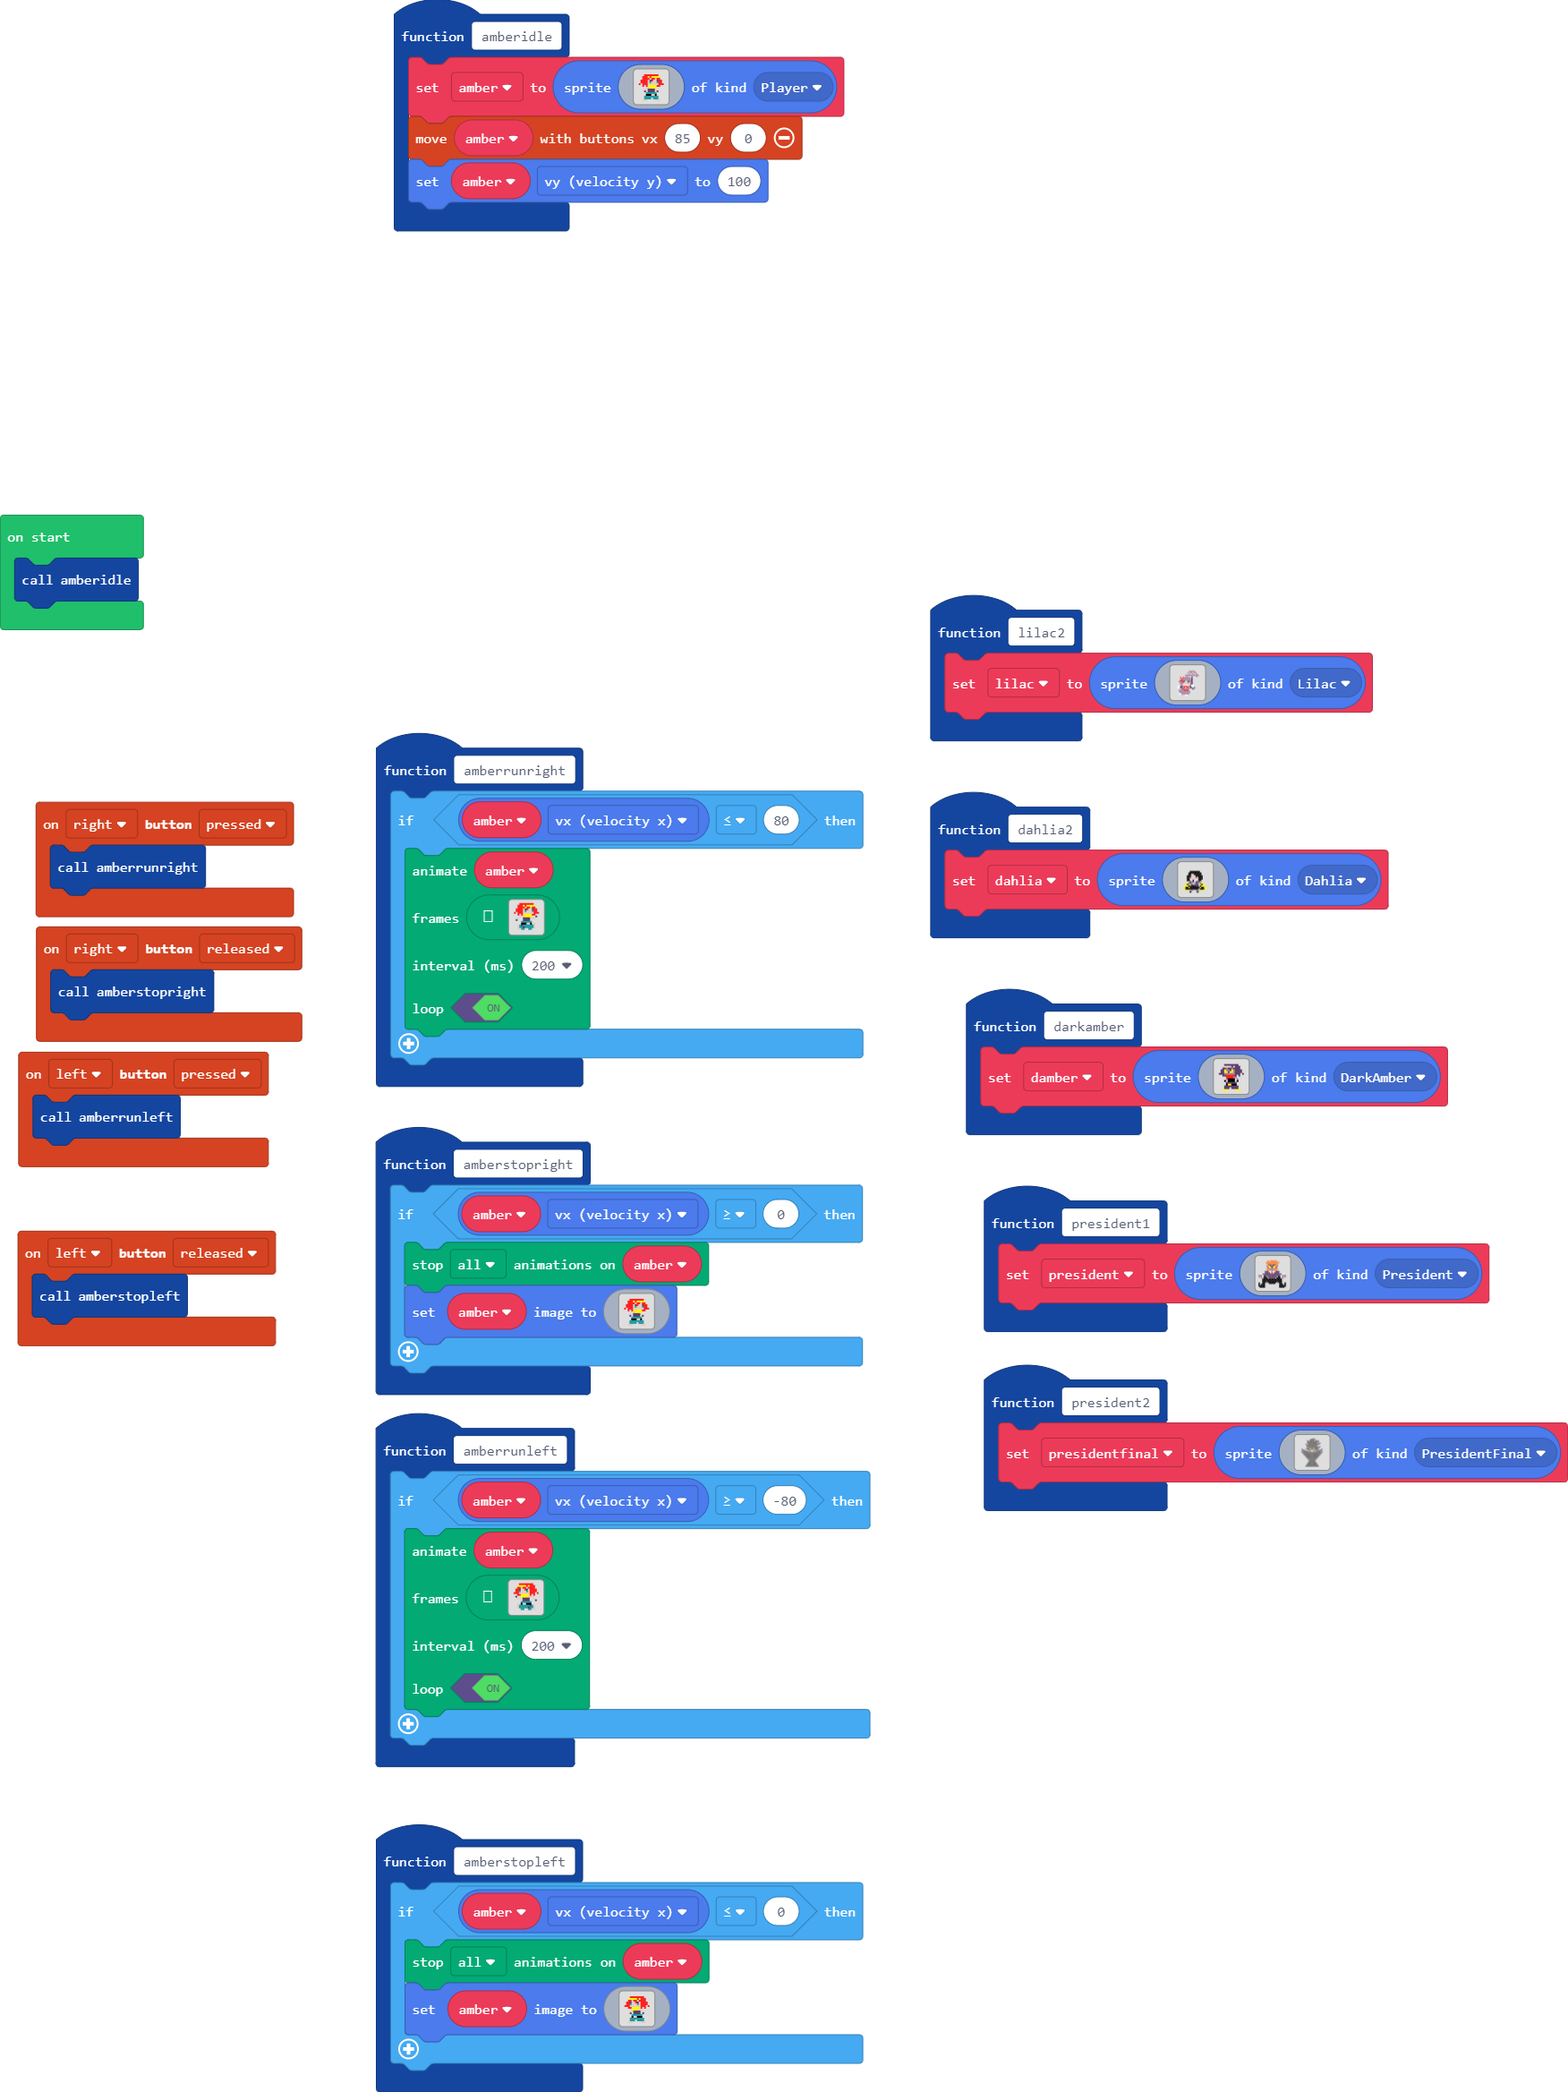
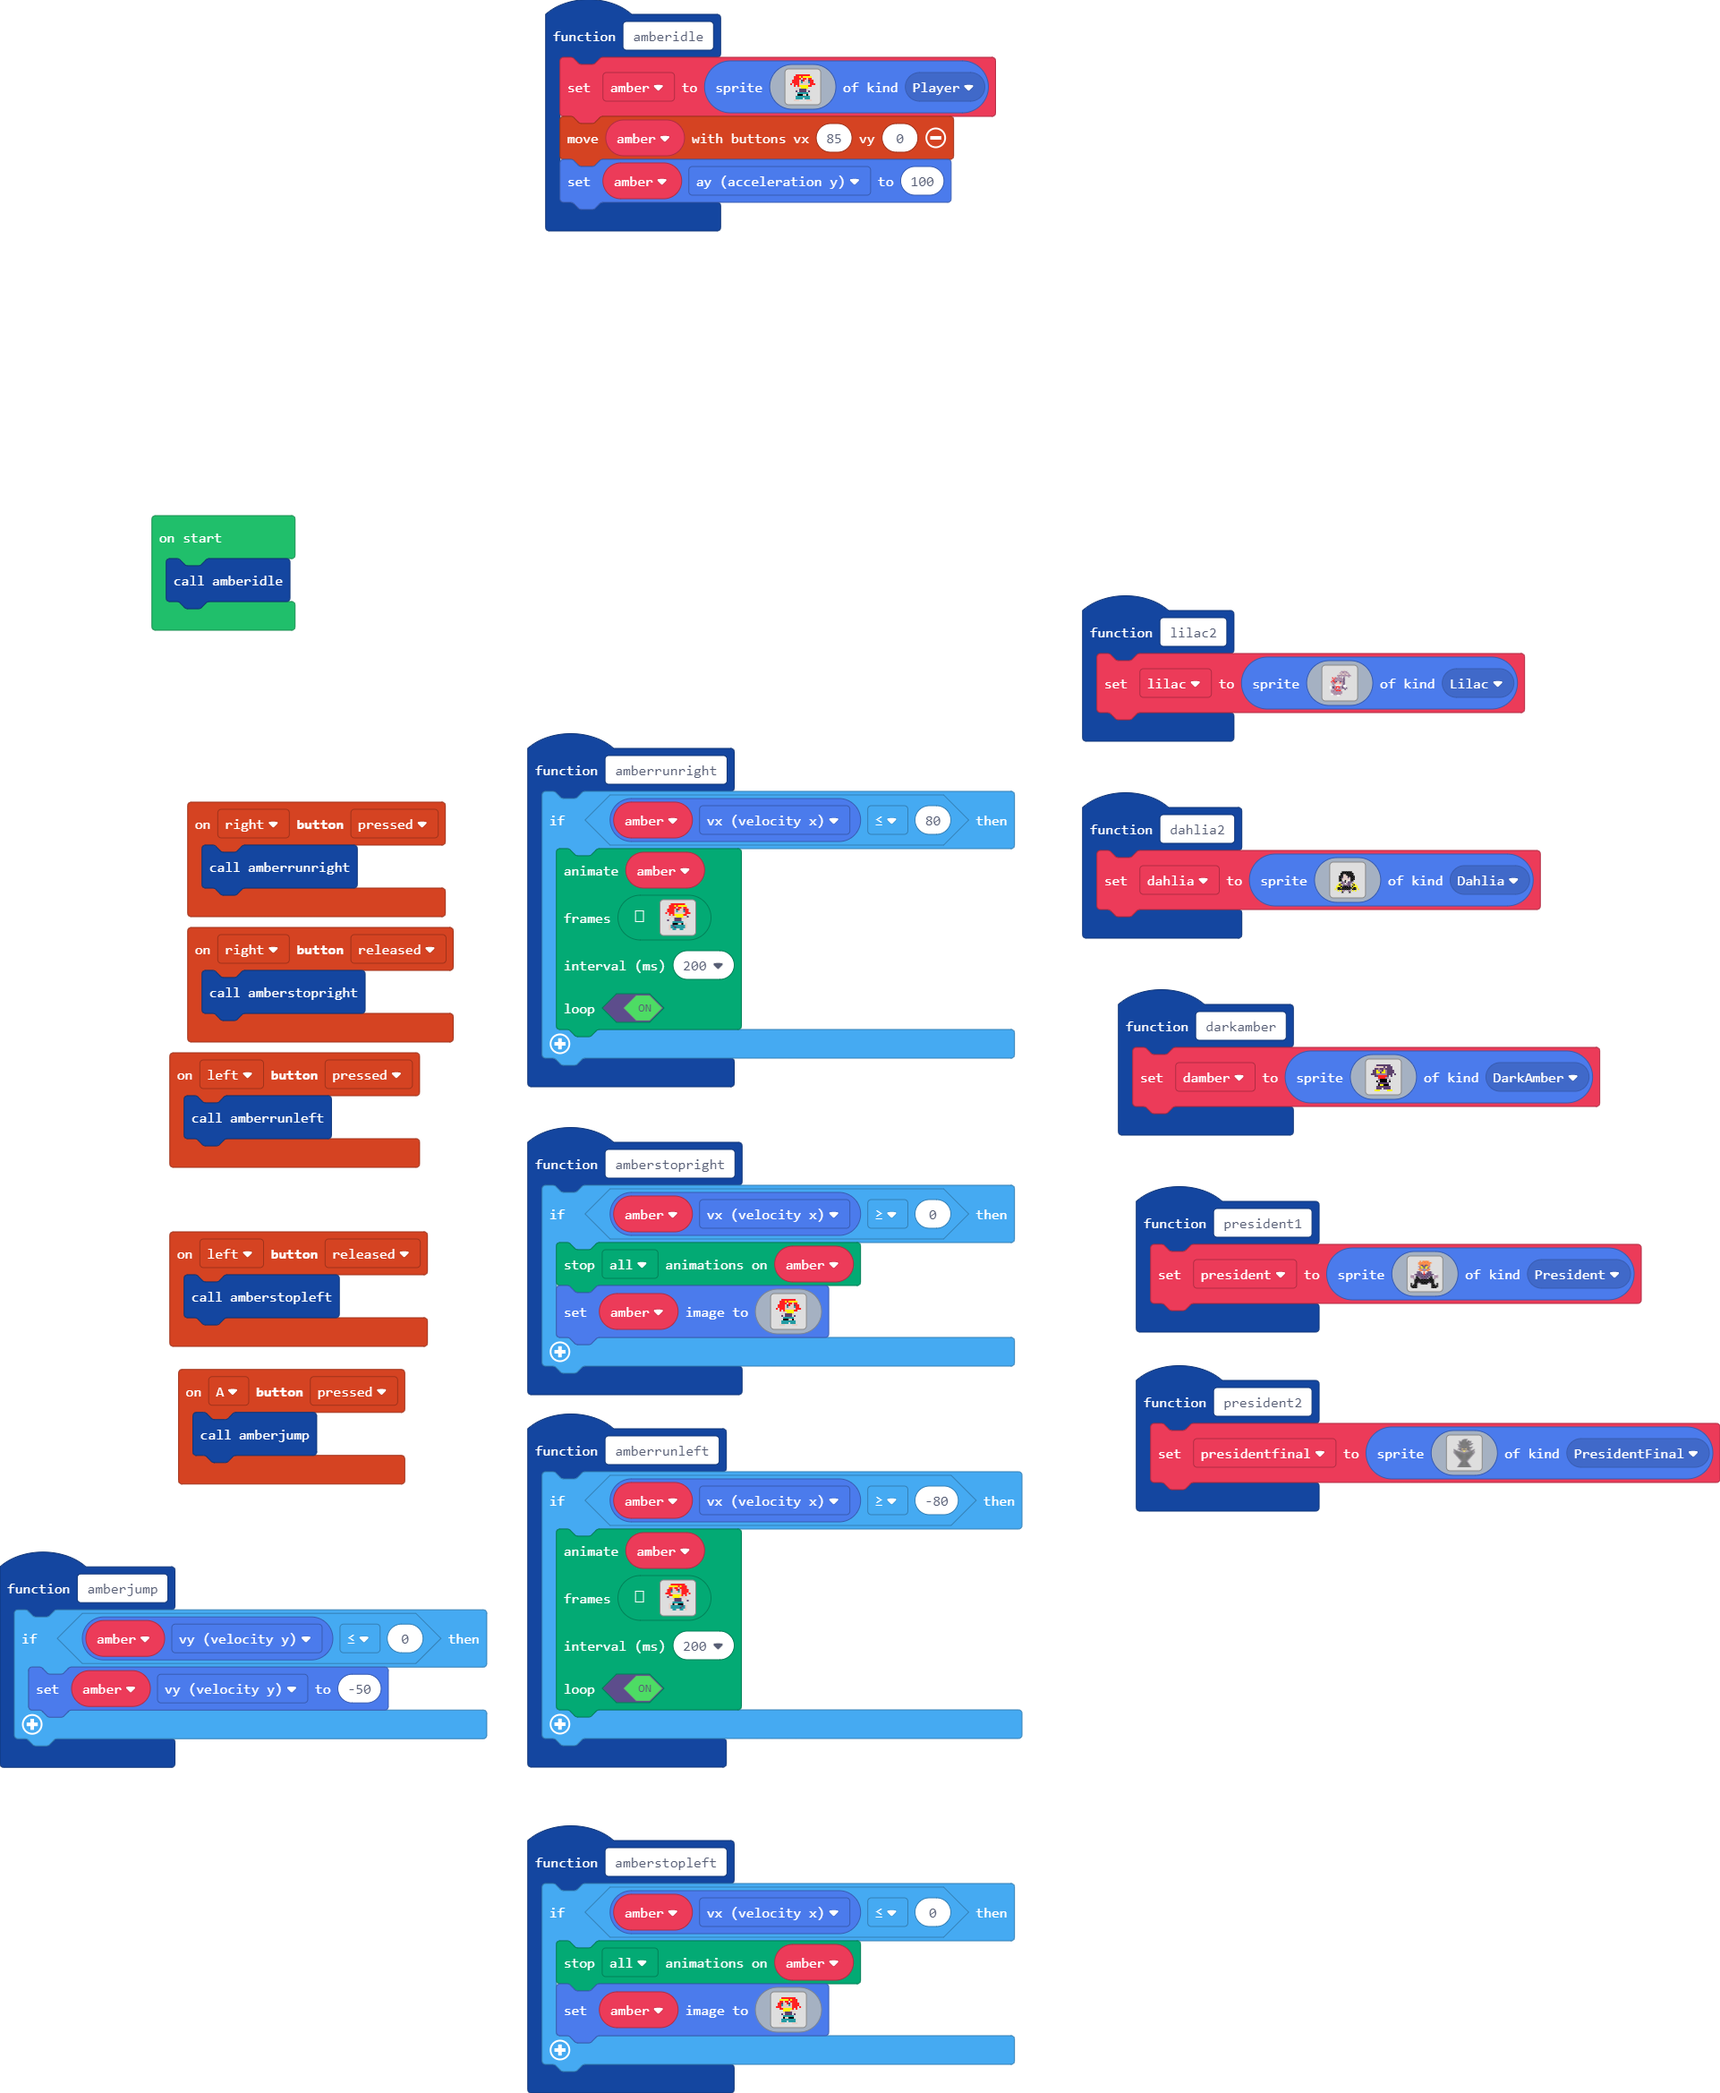
Update main.blocks, main.ts

diff --git a/main.ts b/main.ts
@@ -5,105 +5,9 @@ namespace SpriteKind {
     export const President = SpriteKind.create()
     export const PresidentFinal = SpriteKind.create()
 }
-function amberstopright () {
-    if (amber.vx >= 0) {
-        animation.stopAnimation(animation.AnimationTypes.All, amber)
-        amber.setImage(img`
-. . . . . . . . . . . . . . . . 
-. . . . 2 2 2 2 2 2 2 2 . . . . 
-. . . 2 2 2 5 2 5 5 5 5 5 . . . 
-. . . 2 2 2 2 d 2 2 d 2 2 . . . 
-. . 2 2 2 2 d c 2 d d c 2 2 . . 
-. . 2 2 2 2 d 6 d d d 6 2 2 . . 
-. 2 . 2 2 2 d d d d d d 2 2 2 . 
-. . . 2 . 2 5 5 5 5 5 2 2 . . . 
-. . . . . d d 5 5 5 5 . . . . . 
-. . . . d . c c c c d . . . . . 
-. . . . c . c c c c . c . . . . 
-. . . . . 6 6 6 6 6 6 . . . . . 
-. . . . . f f f d d f . . . . . 
-. . . . 6 6 6 6 6 6 6 6 . . . . 
-. . . . 6 6 6 6 . 6 6 6 . . . . 
-. . . d d d . . . . d d d . . . 
-`)
-    }
-}
-function amberrunleft () {
-    if (amber.vx >= -80) {
-        animation.runImageAnimation(
-        amber,
-        [img`
-. . . . 2 2 2 2 2 2 2 2 . . . . 
-. . . 5 5 5 5 5 2 5 2 2 2 . . . 
-. . . 2 2 d 2 2 d 2 2 2 2 . . . 
-. . 2 2 c d d 2 c d 2 2 2 2 . . 
-. . 2 2 6 d d d 6 d 2 2 2 2 . . 
-. 2 2 2 d d d d d d 2 2 2 . 2 . 
-. . . 2 2 5 5 5 5 5 2 . 2 . . . 
-. . c . . 5 5 5 5 d d d . . . . 
-. . . d d d c c c c . . d . . . 
-. . . . . . c c c c . . . c . . 
-. . . . . 6 6 6 6 6 6 . . . . . 
-. . . d . f d d f f f . . . . . 
-. . . d 6 6 6 6 6 6 c 6 d . . . 
-. . . d 6 6 6 6 6 c 6 6 d . . . 
-. . . . . 6 6 . . 6 6 . d . . . 
-. . . . . . . . . . . . . . . . 
-`,img`
-. . . . . . . . . . . . . . . . 
-. . . . 2 2 2 2 2 2 2 2 . . . . 
-. . . 5 5 5 5 5 2 5 2 2 2 . . . 
-. . . 2 2 d 2 2 d 2 2 2 2 . . . 
-. . 2 2 c d d 2 c d 2 2 2 2 . . 
-. . 2 2 6 d d d 6 d 2 2 2 2 . . 
-. 2 2 2 d d d d d d 2 2 2 . 2 . 
-. . . 2 2 5 5 5 5 5 2 . 2 . . . 
-. . . . . 5 5 5 5 d . . . . . . 
-. . . . . d c c c c d . . . . . 
-. . . . c d c c c d d . . . . . 
-. . . . . 6 6 6 6 6 6 . . . . . 
-. . . . . f d d f f f . . . . . 
-. . . . . 6 6 6 6 6 6 . . . . . 
-. . . . . 6 6 c 6 6 6 . . . . . 
-. . . . d d d . d d d . . . . . 
-`,img`
-. . . . 2 2 2 2 2 2 2 2 . . . . 
-. . . 5 5 5 5 5 2 5 2 2 2 . . . 
-. . . 2 2 d 2 2 d 2 2 2 2 . . . 
-. . 2 2 c d d 2 c d 2 2 2 2 . . 
-. . 2 2 6 d d d 6 d 2 2 2 2 . . 
-. 2 2 2 d d d d d d 2 2 2 . 2 . 
-. . . 2 2 5 5 5 5 5 2 . 2 . . . 
-. . c . . 5 5 d c c d d . . . . 
-. . . d d d d c c c . . d . . . 
-. . . . . . c c c c . . . c . . 
-. . . . . 6 6 6 6 6 6 . . . . . 
-. . . d . f d d f f f . . . . . 
-. . . d 6 c 6 6 6 6 6 6 d . . . 
-. . . d 6 6 c 6 6 6 6 6 d . . . 
-. . . . . 6 6 . . 6 6 . d . . . 
-. . . . . . . . . . . . . . . . 
-`,img`
-. . . . . . . . . . . . . . . . 
-. . . . 2 2 2 2 2 2 2 2 . . . . 
-. . . 5 5 5 5 5 2 5 2 2 2 . . . 
-. . . 2 2 d 2 2 d 2 2 2 2 . . . 
-. . 2 2 c d d 2 c d 2 2 2 2 . . 
-. . 2 2 6 d d d 6 d 2 2 2 2 . . 
-. 2 2 2 d d d d d d 2 2 2 . 2 . 
-. . . 2 2 5 5 5 5 5 2 . 2 . . . 
-. . . . . 5 5 5 5 d . . . . . . 
-. . . . . d c c c c d . . . . . 
-. . . . c d c c c d d . . . . . 
-. . . . . 6 6 6 6 6 6 . . . . . 
-. . . . . f d d f f f . . . . . 
-. . . . . 6 6 6 6 6 6 . . . . . 
-. . . . . 6 6 c 6 6 6 . . . . . 
-. . . . d d d . d d d . . . . . 
-`],
-        200,
-        true
-        )
+function amberjump () {
+    if (amber.vy <= 0) {
+        amber.vy = -50
     }
 }
 controller.left.onEvent(ControllerButtonEvent.Pressed, function () {
@@ -158,7 +62,7 @@ function amberidle () {
 . . . d d d . . . . d d d . . . 
 `, SpriteKind.Player)
     controller.moveSprite(amber, 85, 0)
-    amber.vy = 100
+    amber.ay = 100
 }
 function president2 () {
     presidentfinal = sprites.create(img`
@@ -264,6 +168,9 @@ function president2 () {
 . . . . . . . . . . . . . . . . . . . . . . . . . f c c f f f f f f f f f f f f f f f f f f f f f f f f f f f f f f f f f f f f f f f f f f f f c c f . . . . . . . . . . . . . . . . . . . . . . . . . 
 `, SpriteKind.PresidentFinal)
 }
+controller.A.onEvent(ControllerButtonEvent.Pressed, function () {
+    amberjump()
+})
 function lilac2 () {
     lilac = sprites.create(img`
 . . . . . . . . . . . . . . . . . . . . 
@@ -436,6 +343,107 @@ function amberrunright () {
 . . . . . 6 6 6 6 6 6 . . . . . 
 . . . . . 6 6 6 c 6 6 . . . . . 
 . . . . . d d d . d d d . . . . 
+`],
+        200,
+        true
+        )
+    }
+}
+function amberstopright () {
+    if (amber.vx >= 0) {
+        animation.stopAnimation(animation.AnimationTypes.All, amber)
+        amber.setImage(img`
+. . . . . . . . . . . . . . . . 
+. . . . 2 2 2 2 2 2 2 2 . . . . 
+. . . 2 2 2 5 2 5 5 5 5 5 . . . 
+. . . 2 2 2 2 d 2 2 d 2 2 . . . 
+. . 2 2 2 2 d c 2 d d c 2 2 . . 
+. . 2 2 2 2 d 6 d d d 6 2 2 . . 
+. 2 . 2 2 2 d d d d d d 2 2 2 . 
+. . . 2 . 2 5 5 5 5 5 2 2 . . . 
+. . . . . d d 5 5 5 5 . . . . . 
+. . . . d . c c c c d . . . . . 
+. . . . c . c c c c . c . . . . 
+. . . . . 6 6 6 6 6 6 . . . . . 
+. . . . . f f f d d f . . . . . 
+. . . . 6 6 6 6 6 6 6 6 . . . . 
+. . . . 6 6 6 6 . 6 6 6 . . . . 
+. . . d d d . . . . d d d . . . 
+`)
+    }
+}
+function amberrunleft () {
+    if (amber.vx >= -80) {
+        animation.runImageAnimation(
+        amber,
+        [img`
+. . . . 2 2 2 2 2 2 2 2 . . . . 
+. . . 5 5 5 5 5 2 5 2 2 2 . . . 
+. . . 2 2 d 2 2 d 2 2 2 2 . . . 
+. . 2 2 c d d 2 c d 2 2 2 2 . . 
+. . 2 2 6 d d d 6 d 2 2 2 2 . . 
+. 2 2 2 d d d d d d 2 2 2 . 2 . 
+. . . 2 2 5 5 5 5 5 2 . 2 . . . 
+. . c . . 5 5 5 5 d d d . . . . 
+. . . d d d c c c c . . d . . . 
+. . . . . . c c c c . . . c . . 
+. . . . . 6 6 6 6 6 6 . . . . . 
+. . . d . f d d f f f . . . . . 
+. . . d 6 6 6 6 6 6 c 6 d . . . 
+. . . d 6 6 6 6 6 c 6 6 d . . . 
+. . . . . 6 6 . . 6 6 . d . . . 
+. . . . . . . . . . . . . . . . 
+`,img`
+. . . . . . . . . . . . . . . . 
+. . . . 2 2 2 2 2 2 2 2 . . . . 
+. . . 5 5 5 5 5 2 5 2 2 2 . . . 
+. . . 2 2 d 2 2 d 2 2 2 2 . . . 
+. . 2 2 c d d 2 c d 2 2 2 2 . . 
+. . 2 2 6 d d d 6 d 2 2 2 2 . . 
+. 2 2 2 d d d d d d 2 2 2 . 2 . 
+. . . 2 2 5 5 5 5 5 2 . 2 . . . 
+. . . . . 5 5 5 5 d . . . . . . 
+. . . . . d c c c c d . . . . . 
+. . . . c d c c c d d . . . . . 
+. . . . . 6 6 6 6 6 6 . . . . . 
+. . . . . f d d f f f . . . . . 
+. . . . . 6 6 6 6 6 6 . . . . . 
+. . . . . 6 6 c 6 6 6 . . . . . 
+. . . . d d d . d d d . . . . . 
+`,img`
+. . . . 2 2 2 2 2 2 2 2 . . . . 
+. . . 5 5 5 5 5 2 5 2 2 2 . . . 
+. . . 2 2 d 2 2 d 2 2 2 2 . . . 
+. . 2 2 c d d 2 c d 2 2 2 2 . . 
+. . 2 2 6 d d d 6 d 2 2 2 2 . . 
+. 2 2 2 d d d d d d 2 2 2 . 2 . 
+. . . 2 2 5 5 5 5 5 2 . 2 . . . 
+. . c . . 5 5 d c c d d . . . . 
+. . . d d d d c c c . . d . . . 
+. . . . . . c c c c . . . c . . 
+. . . . . 6 6 6 6 6 6 . . . . . 
+. . . d . f d d f f f . . . . . 
+. . . d 6 c 6 6 6 6 6 6 d . . . 
+. . . d 6 6 c 6 6 6 6 6 d . . . 
+. . . . . 6 6 . . 6 6 . d . . . 
+. . . . . . . . . . . . . . . . 
+`,img`
+. . . . . . . . . . . . . . . . 
+. . . . 2 2 2 2 2 2 2 2 . . . . 
+. . . 5 5 5 5 5 2 5 2 2 2 . . . 
+. . . 2 2 d 2 2 d 2 2 2 2 . . . 
+. . 2 2 c d d 2 c d 2 2 2 2 . . 
+. . 2 2 6 d d d 6 d 2 2 2 2 . . 
+. 2 2 2 d d d d d d 2 2 2 . 2 . 
+. . . 2 2 5 5 5 5 5 2 . 2 . . . 
+. . . . . 5 5 5 5 d . . . . . . 
+. . . . . d c c c c d . . . . . 
+. . . . c d c c c d d . . . . . 
+. . . . . 6 6 6 6 6 6 . . . . . 
+. . . . . f d d f f f . . . . . 
+. . . . . 6 6 6 6 6 6 . . . . . 
+. . . . . 6 6 c 6 6 6 . . . . . 
+. . . . d d d . d d d . . . . . 
 `],
         200,
         true
